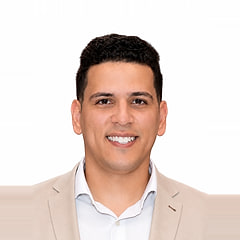
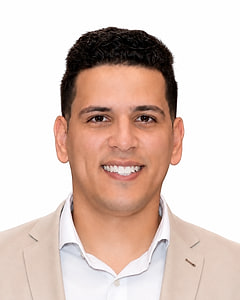
Hero photo as a 4:5 rounded rectangle: space above the head, the suit showing
The circle becomes a rounded portrait (120 × 150, 96 × 120 on phones) in the same accent ring, cut
from the photo itself (its full width, from the top), so nothing is carried out at the edges.

diff --git a/src/styles/global.css b/src/styles/global.css
@@ -235,8 +235,8 @@ code { font-size: 0.86em; }
 /* ---------- hero ---------- */
 .hero { display: grid; gap: clamp(22px, 3vw, 30px); padding-block: clamp(36px, 6vw, 72px) clamp(26px, 4vw, 40px); max-width: 920px; }
 .hero-id { display: flex; align-items: center; gap: 22px; }
-.hero-avatar { flex: none; margin: 0; width: 120px; height: 120px; padding: 3px; border-radius: 50%; background: conic-gradient(from 200deg, var(--accent), transparent 55%, var(--accent)); }
-.hero-avatar img { display: block; width: 100%; height: 100%; object-fit: cover; border-radius: 50%; border: 3px solid var(--bg); }
+.hero-avatar { flex: none; margin: 0; width: 120px; height: 150px; padding: 3px; border-radius: 22px; background: conic-gradient(from 200deg, var(--accent), transparent 55%, var(--accent)); }
+.hero-avatar img { display: block; width: 100%; height: 100%; object-fit: cover; border-radius: 19px; border: 3px solid var(--bg); }
 .hero-meta { display: grid; gap: 6px; justify-items: start; position: relative; }
 .hero-name { font-family: var(--display); font-weight: 720; font-stretch: 106%; font-size: 1.35rem; line-height: 1.1; }
 .hero-text { display: grid; gap: 18px; justify-items: start; align-content: start; }
@@ -268,7 +268,8 @@ code { font-size: 0.86em; }
 .hero-ctas { display: flex; gap: 10px; flex-wrap: wrap; }
 .short { display: none; }
 @media (max-width: 680px) {
-  .hero-avatar { width: 96px; height: 96px; }
+  .hero-avatar { width: 96px; height: 120px; border-radius: 18px; }
+  .hero-avatar img { border-radius: 15px; }
   .hero-id { gap: 16px; }
   .long { display: none; }
   .short { display: inline; }
